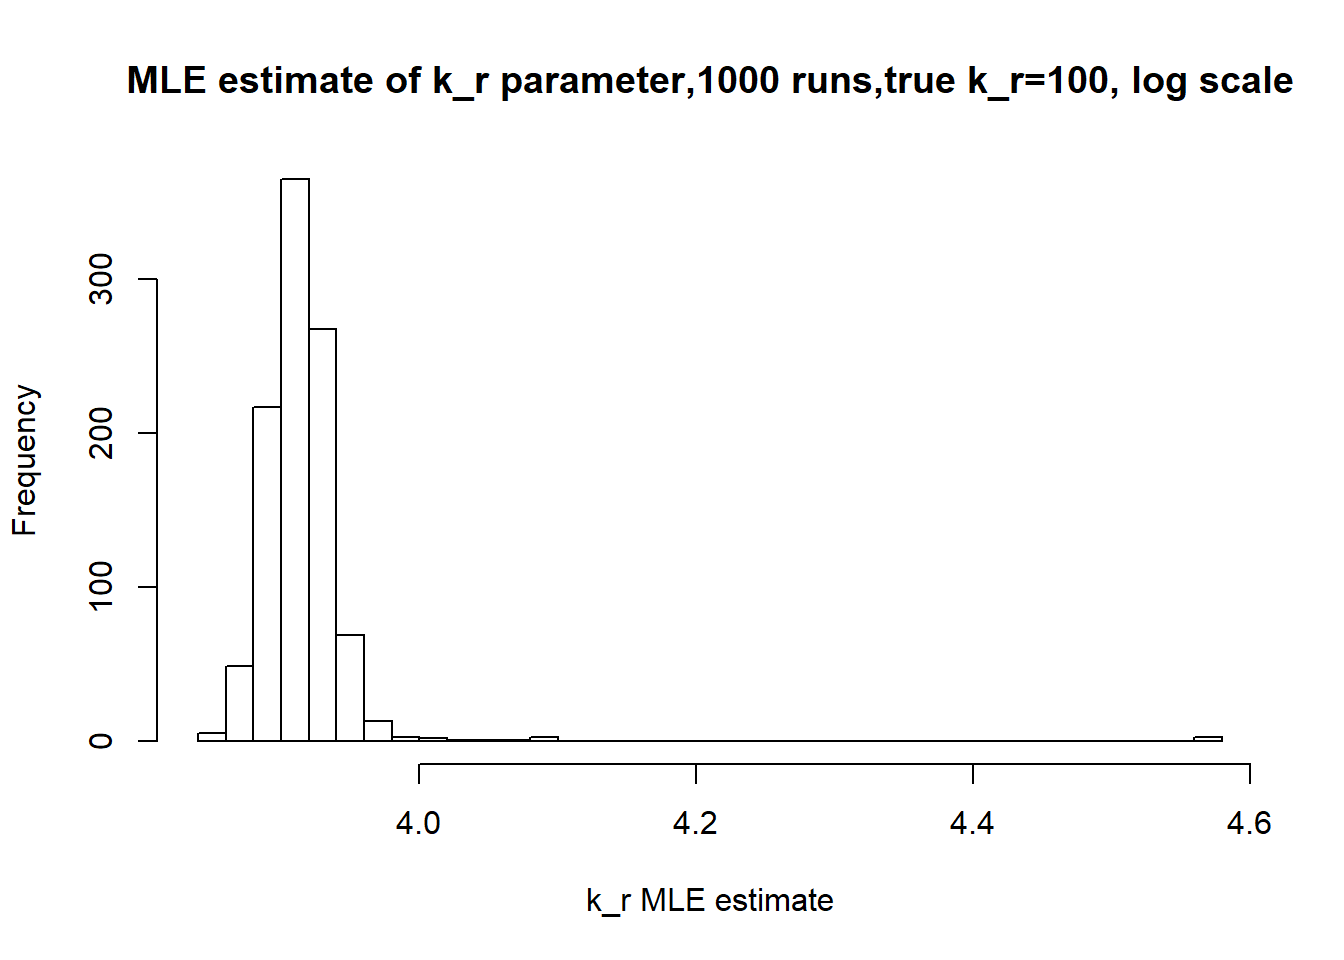
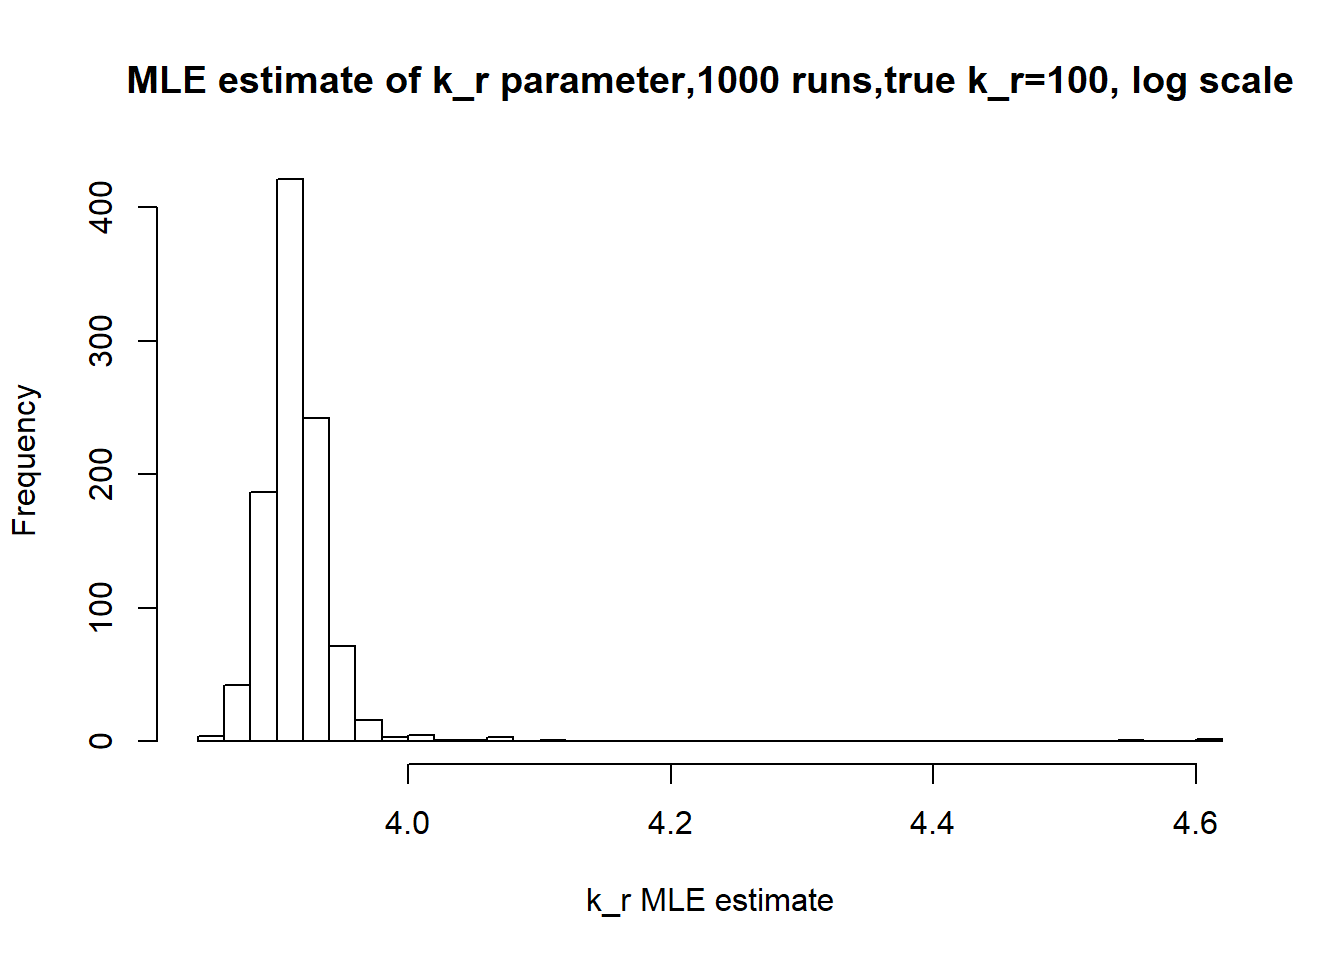
Build site.

diff --git a/docs/MLE_estimation_with_noise_parameter.html b/docs/MLE_estimation_with_noise_parameter.html
@@ -467,10 +467,10 @@ analysis/MLE_with_si.py
 <div class="panel panel-default">
 <div class="panel-heading">
 <p class="panel-title">
-<a data-toggle="collapse" data-parent="#workflowr-checks" href="#strongRepositoryversionstrongahrefhttpsgithubcomMargareth2407ThesissingleRNAtreeb7583a5429ac283a9f1063f0cd881643cdb29016targetblankb7583a5a"> <span class="glyphicon glyphicon-ok text-success" aria-hidden="true"></span> <strong>Repository version:</strong> <a href="https://github.com/Margareth2407/Thesis_single_RNA/tree/b7583a5429ac283a9f1063f0cd881643cdb29016" target="_blank">b7583a5</a> </a>
+<a data-toggle="collapse" data-parent="#workflowr-checks" href="#strongRepositoryversionstrongahrefhttpsgithubcomMargareth2407ThesissingleRNAtree0daca3ffbbdb4be810e63159e765dbd659f5568btargetblank0daca3fa"> <span class="glyphicon glyphicon-ok text-success" aria-hidden="true"></span> <strong>Repository version:</strong> <a href="https://github.com/Margareth2407/Thesis_single_RNA/tree/0daca3ffbbdb4be810e63159e765dbd659f5568b" target="_blank">0daca3f</a> </a>
 </p>
 </div>
[2 lines of base64/hex data omitted]
 <div class="panel-body">
 <p>
 Great! You are using Git for version control. Tracking code development and connecting the code version to the results is critical for reproducibility. The version displayed above was the version of the Git repository at the time these results were generated. <br><br> Note that you need to be careful to ensure that all relevant files for the analysis have been committed to Git prior to generating the results (you can use <code>wflow_publish</code> or <code>wflow_git_commit</code>). workflowr only checks the R Markdown file, but you know if there are other scripts or data files that it depends on. Below is the status of the Git repository when the results were generated:
@@ -492,6 +492,7 @@ Unstaged changes:
     Deleted:    analysis/Data_sim.Rmd
     Modified:   analysis/MLE.py
     Deleted:    analysis/MLE_bootstrap_N_variability.Rmd
+    Modified:   analysis/Real_data_filter.Rmd
 
 </code></pre>
 <p>
@@ -525,42 +526,42 @@ n_cells=as.integer(100)
 x=generate_data(k_on,k_off,kr,n_cells)</code></pre>
 <pre class="r"><code>est=MaximumLikelihood(x)
 est</code></pre>
-<pre><code>[1]   0.1019087   0.1066323 101.4788020</code></pre>
+<pre><code>[1]   0.09301532   0.14482931 100.24388427</code></pre>
 <p>Then, we implement MLE calculation with <span class="math inline">\(s_i\)</span> parameter included.</p>
 <pre class="r"><code>source_python(&quot;C:/Users/Moonkin/Documents/GitHub/Thesis_single_RNA/analysis/MLE_with_si.py&quot;)</code></pre>
 <p>With <span class="math inline">\(s_i\)</span>=1 we should receive the same estimators as without <span class="math inline">\(s_i\)</span></p>
 <pre class="r"><code>si=matrix(1, nrow = 100, ncol = 1)
 est=MaximumLikelihood_with_si(x,si)
 est</code></pre>
-<pre><code>[1]   0.1019087   0.1066323 101.4788020</code></pre>
+<pre><code>[1]   0.09301532   0.14482931 100.24388427</code></pre>
 <p>With <span class="math inline">\(s_i\)</span>=2, our <span class="math inline">\(k_r\)</span> estimate drops twice, while <span class="math inline">\(k_{on}\)</span> and <span class="math inline">\(k_{off}\)</span> are not really affected by this change.</p>
 <pre class="r"><code>si=matrix(2, nrow = 100, ncol = 1)
 est=MaximumLikelihood_with_si(x,si)
 est</code></pre>
-<pre><code>[1]  0.1019179  0.1066442 50.7398082</code></pre>
+<pre><code>[1]  0.09325021  0.14553311 50.17748185</code></pre>
 <p>We also try using different <span class="math inline">\(s_i\)</span> values as this is what we will see in real data:</p>
 <pre class="r"><code>si=matrix(1:5, nrow = 100, ncol = 1)
 est=MaximumLikelihood_with_si(x,si)
 est</code></pre>
-<pre><code>[1]   0.1870296   0.6757659 109.8943303</code></pre>
+<pre><code>[1]   0.1609895   0.9242359 123.9472469</code></pre>
 </div>
 <div id="multiple-dataset-results" class="section level1">
 <h1>Multiple dataset results</h1>
 <p>Now we will also test model with <span class="math inline">\(s_i\)</span> vs the model without it:</p>
 <p>Initial MLE calculations:</p>
 <p><img src="figure/MLE_estimation_with_noise_parameter.Rmd/unnamed-chunk-8-1.png" width="672" style="display: block; margin: auto;" /></p>
-<pre><code>[1] &quot;true k_on is 0.1; k_on mean 0.101 k_on median 0.099&quot;</code></pre>
+<pre><code>[1] &quot;true k_on is 0.1; k_on mean 0.102 k_on median 0.1&quot;</code></pre>
 <p><img src="figure/MLE_estimation_with_noise_parameter.Rmd/unnamed-chunk-8-2.png" width="672" style="display: block; margin: auto;" /></p>
-<pre><code>[1] &quot;true k_off is 0.1; k_off mean 0.102 k_off median 0.098&quot;</code></pre>
+<pre><code>[1] &quot;true k_off is 0.1; k_off mean 0.103 k_off median 0.101&quot;</code></pre>
 <p><img src="figure/MLE_estimation_with_noise_parameter.Rmd/unnamed-chunk-8-3.png" width="672" style="display: block; margin: auto;" /></p>
-<pre><code>[1] &quot;true k_r is 100; k_r mean 99.984 k_r median 99.924&quot;</code></pre>
+<pre><code>[1] &quot;true k_r is 100; k_r mean 100.04 k_r median 100.018&quot;</code></pre>
 <p>MLE calculations with <span class="math inline">\(s_i\)</span>=2 for all cells:</p>
 <p><img src="figure/MLE_estimation_with_noise_parameter.Rmd/unnamed-chunk-9-1.png" width="672" style="display: block; margin: auto;" /></p>
-<pre><code>[1] &quot;true k_on is 0.1; k_on mean 0.103 k_on median 0.101&quot;</code></pre>
+<pre><code>[1] &quot;true k_on is 0.1; k_on mean 0.103 k_on median 0.099&quot;</code></pre>
 <p><img src="figure/MLE_estimation_with_noise_parameter.Rmd/unnamed-chunk-9-2.png" width="672" style="display: block; margin: auto;" /></p>
-<pre><code>[1] &quot;true k_off is 0.1; k_off mean 0.111 k_off median 0.1&quot;</code></pre>
+<pre><code>[1] &quot;true k_off is 0.1; k_off mean 0.114 k_off median 0.101&quot;</code></pre>
 <p><img src="figure/MLE_estimation_with_noise_parameter.Rmd/unnamed-chunk-9-3.png" width="672" style="display: block; margin: auto;" /></p>
-<pre><code>[1] &quot;true k_r is 100; k_r mean 50.244 k_r median 50.026&quot;</code></pre>
+<pre><code>[1] &quot;true k_r is 100; k_r mean 50.283 k_r median 50.012&quot;</code></pre>
 </div>
 <div id="real-data" class="section level1">
 <h1>Real data</h1>
